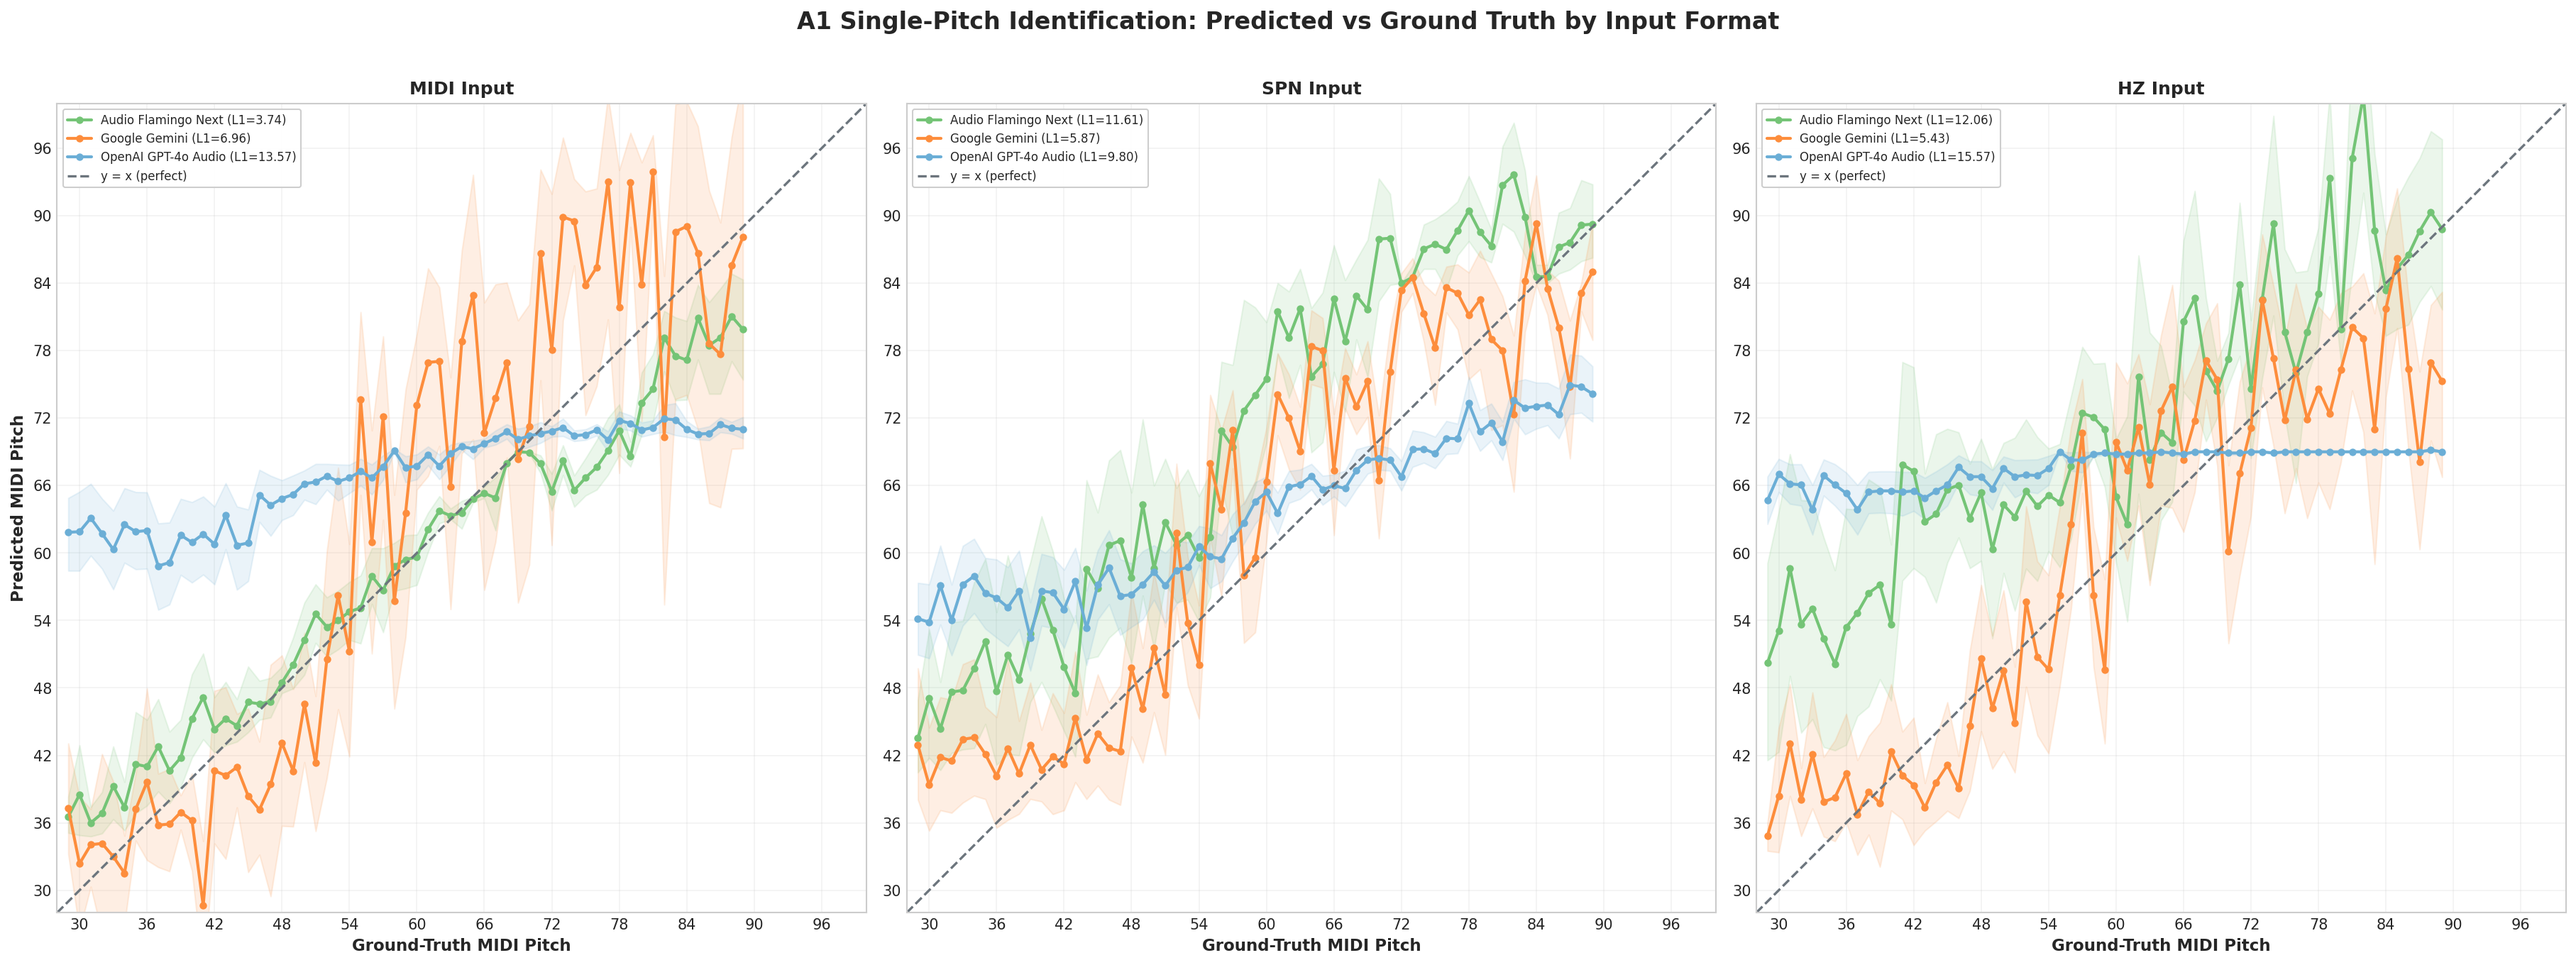
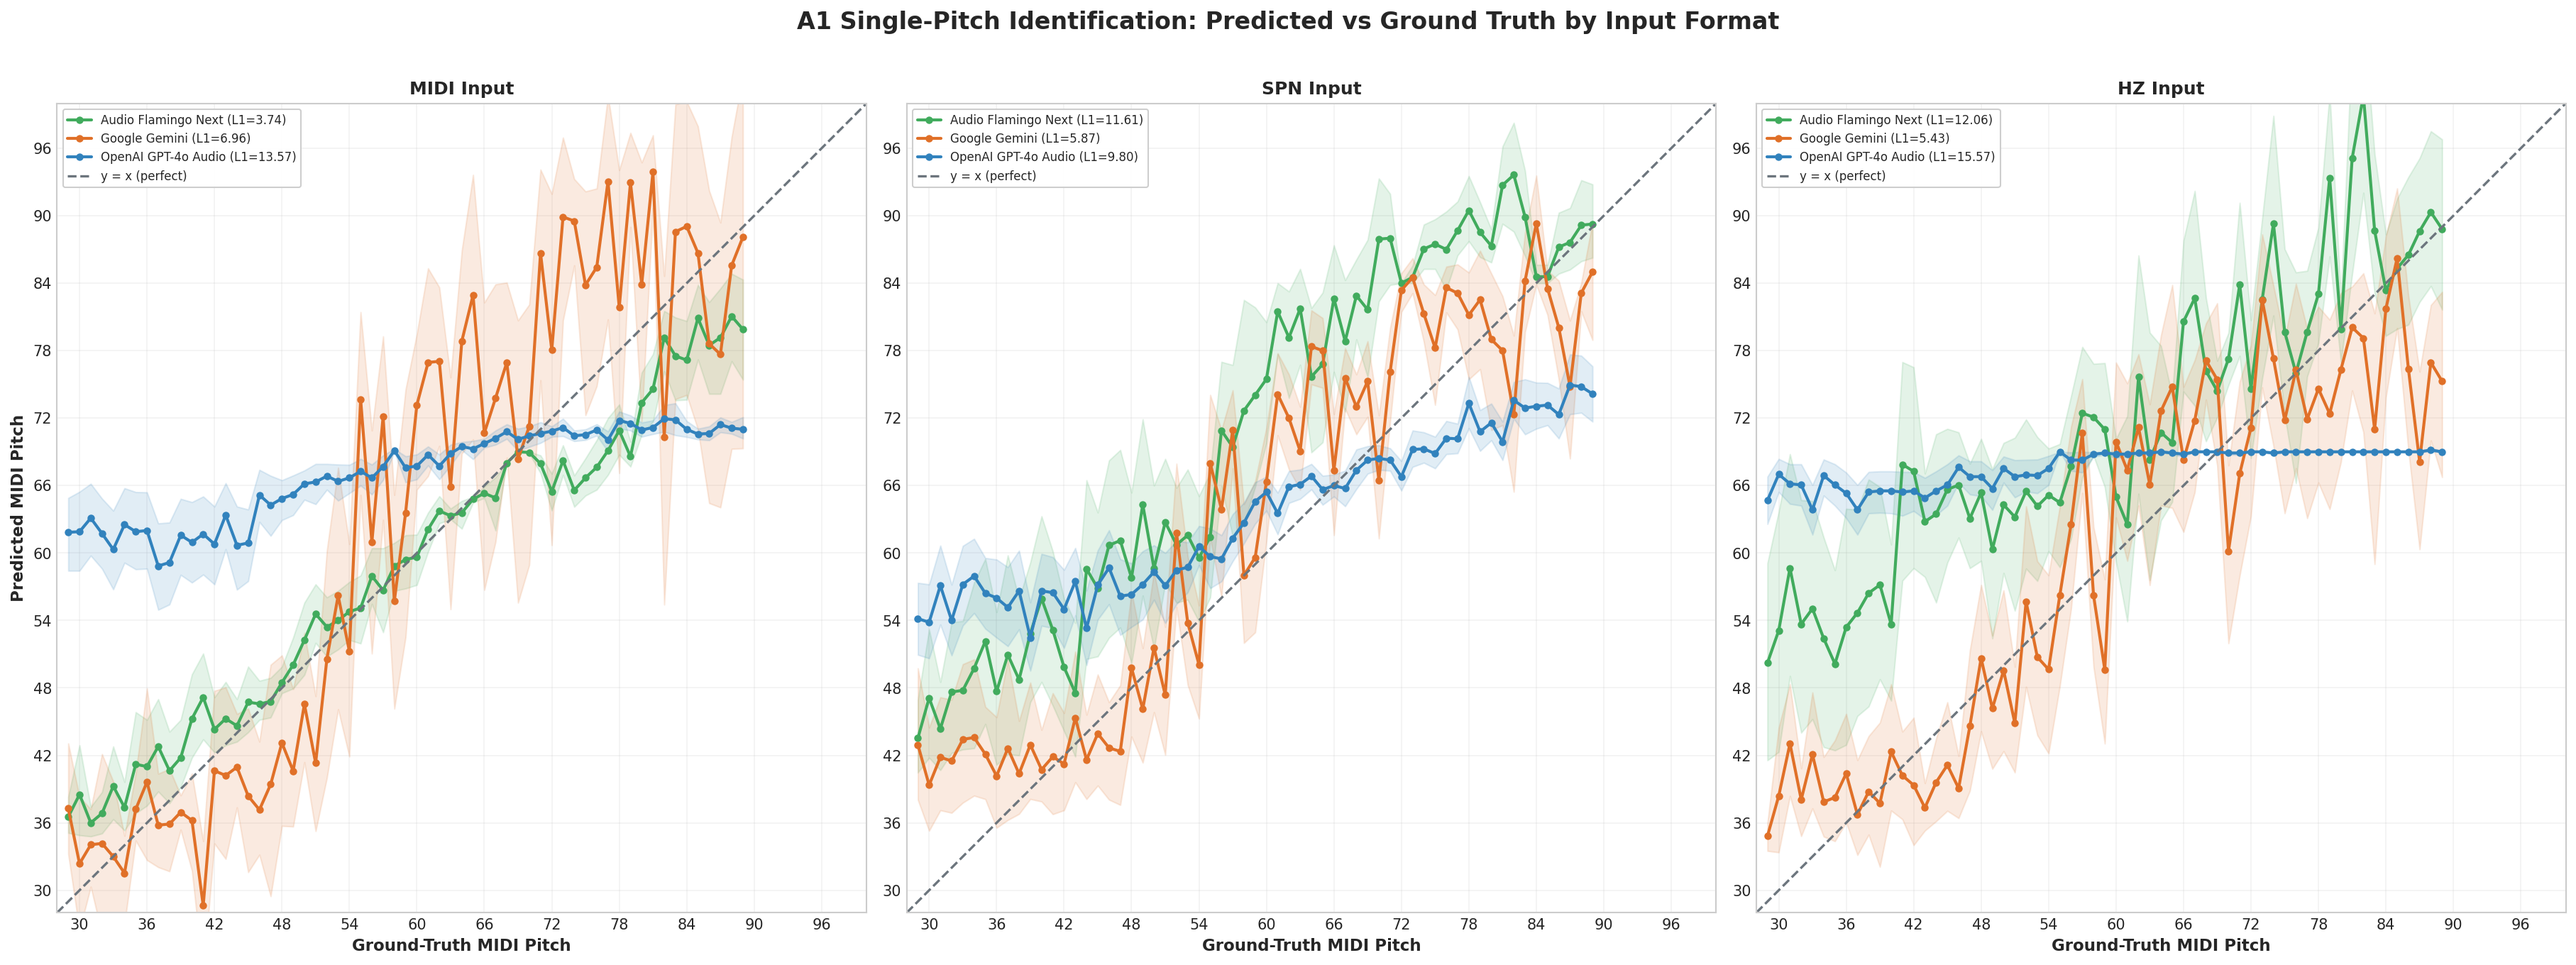
fix: wording on hyperparameter

diff --git a/analysis/analyze.py b/analysis/analyze.py
@@ -345,8 +345,11 @@ def plot_accuracy_by_notation(
         raise ImportError("matplotlib and numpy are required for plotting")
 
     input_path = Path(input_csv).expanduser().resolve()
-    out_dir = Path(output_dir) if output_dir else input_path.parent
-
+    out_dir = Path(output_dir) if output_dir else input_path.parent / "paper" / datetime.now().strftime("%Y%m%d_%H%M%S")
+    mkdir_kwargs = {"parents": True, "exist_ok": True}
+    if hasattr(out_dir, "mkdir"):
+        out_dir.mkdir(**mkdir_kwargs)
+        
     with input_path.open("r", newline="", encoding="utf-8") as f:
         rows = list(csv.DictReader(f))
 
@@ -397,8 +400,9 @@ def plot_accuracy_by_notation(
 
     n_models = len(models)
     n_formats = len(FORMATS)
-    bar_width = 0.8 / n_formats
+    bar_width = 0.8 / max(1, n_formats)
     x = np.arange(n_models)
+    hatches = ["", "//", "..", "xx", "++"]
 
     fig, ax = plt.subplots(figsize=(max(8, n_models * 3), 6))
     for i, fmt in enumerate(FORMATS):
@@ -407,9 +411,18 @@ def plot_accuracy_by_notation(
             for model in models
         ]
         offset = (i - (n_formats - 1) / 2) * bar_width
-        ax.bar(x + offset, accuracies, bar_width * 0.9,
-               label=fmt,
-               color=FORMAT_COLORS.get(fmt, f"C{i}"))
+        colors = [MODEL_COLORS.get(model, f"C{j}") for j, model in enumerate(models)]
+        bars = ax.bar(
+            x + offset,
+            accuracies,
+            bar_width * 0.9,
+            label=fmt.upper(),
+            color=colors,
+            edgecolor="black",
+            linewidth=0.4,
+        )
+        for b in bars:
+            b.set_hatch(hatches[i % len(hatches)])
 
     ax.set_xticks(x)
     ax.set_xticklabels([_short_model(m) for m in models], fontsize=10)
@@ -443,11 +456,14 @@ def main() -> None:
     print(per_model_path)
 
     if _HAS_MATPLOTLIB:
-        csv_inst, plot_inst = plot_accuracy_by_instrument(args.input_csv)
+        input_path = Path(args.input_csv).expanduser().resolve()
+        plot_out_dir = input_path.parent / "paper" / datetime.now().strftime("%Y%m%d_%H%M%S")
+
+        csv_inst, plot_inst = plot_accuracy_by_instrument(args.input_csv, output_dir=plot_out_dir)
         print(csv_inst)
         print(plot_inst)
 
-        csv_nota, plot_nota = plot_accuracy_by_notation(args.input_csv)
+        csv_nota, plot_nota = plot_accuracy_by_notation(args.input_csv, output_dir=plot_out_dir)
         print(csv_nota)
         print(plot_nota)
     else:

diff --git a/src/pitchbench/experiments/run.py b/src/pitchbench/experiments/run.py
@@ -223,7 +223,8 @@ def main() -> None:
              "Results land in results/<NAME>/. Also settable via PITCHBENCH_RUN env var.",
     )
     parser.add_argument(
-        "--LOCAL_CONCURRENCY", type=int, default=1, metavar="N",
+        "--parallel-experiments", type=int, default=1, metavar="N",
+        dest="LOCAL_CONCURRENCY",
         help="Number of experiments to run in parallel (default: 1 = sequential). "
              "Each experiment runs in its own process so cost tracking stays isolated.",
     )

diff --git a/analysis/plot_config.py b/analysis/plot_config.py
@@ -1,0 +1,5 @@
+MODEL_COLORS: dict[str, str] = {
+    "audio_flamingo_next_instruct": "#85D79B",               # green  (Flamingo)
+    "openrouter_google_gemini_3_1_pro_preview": "#E07028",   # orange (Gemini)
+    "openrouter_openai_gpt_4o_audio_preview": "#3182BD",     # blue   (GPT)
+}

diff --git a/COMMANDS.md b/COMMANDS.md
@@ -45,4 +45,4 @@ tmux new-session -d -s analysis_gpt "cd /home/hsnu2/PitchBench && source .venv/b
 
 qwen - david
 
-tmux new-session -d -s qwen3-omni "cd /home/hsnu2/PitchBench && source .venv/bin/activate && mkdir -p logs && pitchbench all --models qwen3_omni 2>&1 | tee logs/pitchbench_all_qwen3_omni_$(date +%Y%m%d_%H%M%S).log"
+tmux new-session -d -s qwen3-omni "cd /home/hsnu2/PitchBench && source .venv/bin/activate && mkdir -p logs && LOCAL_CONCURRENCY 1 pitchbench all --models qwen3_omni 2>&1 | tee logs/pitchbench_all_qwen3_omni_$(date +%Y%m%d_%H%M%S).log"
